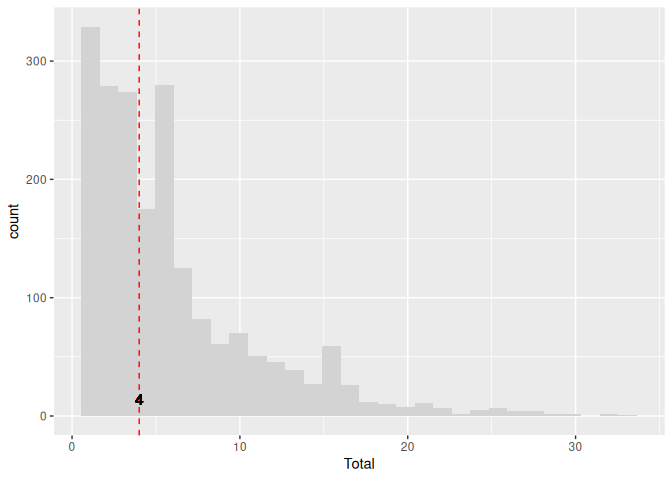
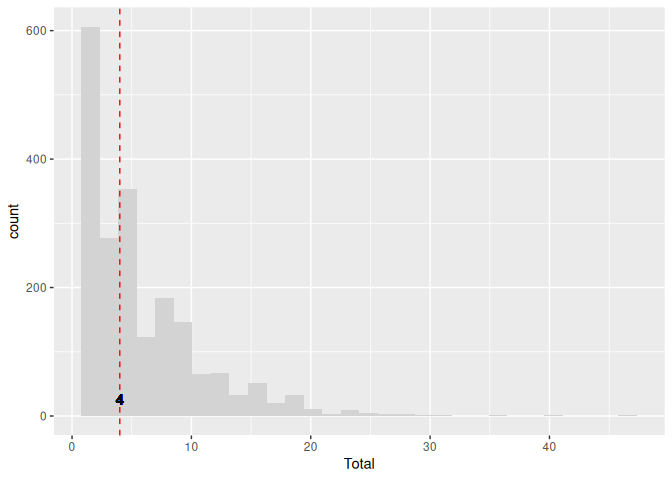
Changing how hospitalization works

diff --git a/model/epiworld.hpp b/model/epiworld.hpp
@@ -21798,6 +21798,16 @@ inline ModelSIRMixing<TSeq> & ModelSIRMixing<TSeq>::initial_states(
     inline void ModelMeaslesQuarantine<TSeq>:: name \
     (epiworld::Agent<TSeq> * p, epiworld::Model<TSeq> * m)
 
+#define SAMPLE_FROM_PROBS(n, ans) \
+    size_t ans; \
+    epiworld_double p_total = m->runif(); \
+    for (ans = 0u; ans < n; ++ans) \
+    { \
+        if (p_total < m->array_double_tmp[ans]) \
+            break; \
+        m->array_double_tmp[ans + 1] += m->array_double_tmp[ans]; \
+    }
+
 /**
  * @brief Template for a Measles model with quarantine
  * 
@@ -22189,7 +22199,6 @@ LOCAL_UPDATE_FUN(m_update_rash) {
     )
     {
         model->system_quarantine_triggered = true;
-
         detected = true;
 
     }
@@ -22207,10 +22216,11 @@ LOCAL_UPDATE_FUN(m_update_rash) {
     );
     #endif
 
-    int which = epiworld::roulette(2, m);
+    // Sampling from the probabilities
+    SAMPLE_FROM_PROBS(2, which);
 
     // Recovers
-    if (which == -1)
+    if (which == 2)
     {
         if (detected)
         {
@@ -22256,10 +22266,11 @@ LOCAL_UPDATE_FUN(m_update_isolated) {
     m->array_double_tmp[0] = 1.0/m->par("Rash days");
     m->array_double_tmp[1] = m->par("Hospitalization rate");
 
-    int which = epiworld::roulette(2, m);
+    // Sampling from the probabilities
+    SAMPLE_FROM_PROBS(2, which);
 
     // Recovers
-    if (which == -1)
+    if (which == 2u)
     {
         if (unquarantine)
         {
@@ -22276,13 +22287,13 @@ LOCAL_UPDATE_FUN(m_update_isolated) {
     }
 
     // If hospitalized, then the agent is removed from the system
-    else if (which == 1)
+    else if (which == 1u)
     {
         p->change_state(m, ModelMeaslesQuarantine::HOSPITALIZED);
     }
     // If neither hospitalized nor recovered, then the agent is
     // still under isolation, unless the quarantine period is over.
-    else if ((which == 0) && unquarantine)
+    else if ((which == 0u) && unquarantine)
     {
         p->change_state(m, ModelMeaslesQuarantine::RASH);
     }
@@ -22532,6 +22543,7 @@ inline ModelMeaslesQuarantine<TSeq>::ModelMeaslesQuarantine(
 
 }
 
+#undef SAMPLE_FROM_PROBS
 #undef LOCAL_UPDATE_FUN
 #undef GET_MODEL
 #endif

diff --git a/model/school_quarantine.cpp b/model/school_quarantine.cpp
@@ -11,8 +11,8 @@ using namespace epiworld;
 int main(int argc, char *argv[]) {
 
     // Passing the single argument to this function
-    std::string fn      = "canyon_crest_74_params.yaml";
-    std::string out_dir = "canyon_crest_74";
+    std::string fn      = "example_params.yaml";
+    std::string out_dir = "example_out";
     if (argc != 3 && argc != 1) {
         std::cerr << "Usage: " << argv[0] << " <filename> <outdir>" << std::endl;
         return 1;

diff --git a/scenarios/canyon_crest_74_npi/README.md b/scenarios/canyon_crest_74_npi/README.md
@@ -57,7 +57,7 @@ This model simulates the spread of measles in a highschool. The
 highschool has students, and the simulation runs for days with one index
 case. The following is the output from the highschool model:
 
-    Using file: /tmp/RtmpYZJFkL/file5b2d326631ac.yaml
+    Using file: /tmp/RtmpkMRSG0/file169c2fd3417b.yaml
     Starting multiple runs (2000) using 10 thread(s)
     _________________________________________________________________________
     _________________________________________________________________________
@@ -72,10 +72,10 @@ case. The following is the output from the highschool model:
     Number of entities  : 0
     Days (duration)     : 60 (of 60)
     Number of viruses   : 1
-    Last run elapsed t  : 1.00ms
-    Total elapsed t     : 454.00ms (2000 runs)
-    Last run speed      : 14.38 million agents x day / second
-    Average run speed   : 125.11 million agents x day / second
+    Last run elapsed t  : 2.00ms
+    Total elapsed t     : 421.00ms (2000 runs)
+    Last run speed      : 13.86 million agents x day / second
+    Average run speed   : 135.03 million agents x day / second
     Rewiring            : off
 
     Global events:
@@ -103,28 +103,28 @@ case. The following is the output from the highschool model:
      - Vax improved recovery  : 0.5000
 
     Distribution of the population at time 60:
-      - ( 0) Susceptible             : 473 -> 349
+      - ( 0) Susceptible             : 473 -> 473
       - ( 1) Exposed                 :   1 -> 0
       - ( 2) Prodromal               :   0 -> 0
       - ( 3) Rash                    :   0 -> 0
       - ( 4) Isolated                :   0 -> 0
-      - ( 5) Quarantined Exposed     :   0 -> 2
-      - ( 6) Quarantined Susceptible :   0 -> 118
-      - ( 7) Quarantined Prodromal   :   0 -> 1
-      - ( 8) Quarantined Recovered   :   0 -> 2
+      - ( 5) Quarantined Exposed     :   0 -> 0
+      - ( 6) Quarantined Susceptible :   0 -> 0
+      - ( 7) Quarantined Prodromal   :   0 -> 0
+      - ( 8) Quarantined Recovered   :   0 -> 0
       - ( 9) Hospitalized            :   0 -> 0
-      - (10) Recovered               :   0 -> 2
+      - (10) Recovered               :   0 -> 1
 
     Transition Probabilities:
-     - Susceptible              0.99  0.00  0.00  0.00  0.00  0.00  0.01  0.00  0.00  0.00  0.00
-     - Exposed                  0.00  0.82  0.08  0.00  0.00  0.08  0.00  0.03  0.00  0.00  0.00
-     - Prodromal                0.00  0.00  0.25  0.75  0.00  0.00  0.00  0.00  0.00  0.00  0.00
-     - Rash                     0.00  0.00  0.00  0.25  0.00  0.00  0.00  0.00  0.50  0.00  0.25
-     - Isolated                 0.00  0.00  0.00  0.00  0.00  0.00  0.00  0.00  1.00  0.00  0.00
-     - Quarantined Exposed      0.00  0.03  0.00  0.00  0.00  0.97  0.00  0.00  0.00  0.00  0.00
-     - Quarantined Susceptible  0.04  0.00  0.00  0.00  0.00  0.00  0.96  0.00  0.00  0.00  0.00
-     - Quarantined Prodromal    0.00  0.00  0.00  0.00  1.00  0.00  0.00  0.00  0.00  0.00  0.00
-     - Quarantined Recovered    0.00  0.00  0.00  0.00  0.00  0.00  0.00  0.00  0.97  0.00  0.03
+     - Susceptible              1.00  0.00  0.00  0.00  0.00  0.00  0.00  0.00  0.00  0.00  0.00
+     - Exposed                  0.00  0.94  0.06  0.00  0.00  0.00  0.00  0.00  0.00  0.00  0.00
+     - Prodromal                0.00  0.00  0.00  1.00  0.00  0.00  0.00  0.00  0.00  0.00  0.00
+     - Rash                     0.00  0.00  0.00  0.00  0.00  0.00  0.00  0.00  0.00  0.00  1.00
+     - Isolated                    -     -     -     -     -     -     -     -     -     -     -
+     - Quarantined Exposed         -     -     -     -     -     -     -     -     -     -     -
+     - Quarantined Susceptible     -     -     -     -     -     -     -     -     -     -     -
+     - Quarantined Prodromal       -     -     -     -     -     -     -     -     -     -     -
+     - Quarantined Recovered       -     -     -     -     -     -     -     -     -     -     -
      - Hospitalized                -     -     -     -     -     -     -     -     -     -     -
      - Recovered                0.00  0.00  0.00  0.00  0.00  0.00  0.00  0.00  0.00  0.00  1.00
 
@@ -146,32 +146,32 @@ flowchart LR
     s8[Rash]
     s9[Recovered]
     s10[Susceptible]
-    s0 -->|0.076707| s3
-    s0 -->|0.074297| s4
-    s0 -->|0.006636| s5
-    s1 -->|0.141961| s9
-    s2 -->|0.156339| s1
-    s2 -->|0.633890| s6
-    s2 -->|0.003711| s8
-    s2 -->|0.008163| s9
-    s3 -->|0.020244| s2
-    s3 -->|0.036600| s5
-    s3 -->|0.311427| s8
-    s4 -->|0.013002| s0
-    s4 -->|0.001093| s3
-    s4 -->|0.083346| s5
-    s5 -->|0.659862| s2
-    s5 -->|0.005275| s3
-    s5 -->|0.009862| s8
-    s6 -->|0.059799| s9
-    s7 -->|0.041857| s10
-    s8 -->|0.161471| s1
-    s8 -->|0.113051| s2
-    s8 -->|0.309019| s6
-    s8 -->|0.314214| s9
-    s10 -->|0.000191| s0
-    s10 -->|0.000033| s4
-    s10 -->|0.005011| s7
+    s0 -->|0.077364| s3
+    s0 -->|0.075019| s4
+    s0 -->|0.006405| s5
+    s1 -->|0.140863| s9
+    s2 -->|0.195589| s1
+    s2 -->|0.551944| s6
+    s2 -->|0.003366| s8
+    s2 -->|0.006268| s9
+    s3 -->|0.021181| s2
+    s3 -->|0.036300| s5
+    s3 -->|0.311429| s8
+    s4 -->|0.013137| s0
+    s4 -->|0.001239| s3
+    s4 -->|0.082703| s5
+    s5 -->|0.652913| s2
+    s5 -->|0.004827| s3
+    s5 -->|0.009769| s8
+    s6 -->|0.059415| s9
+    s7 -->|0.041546| s10
+    s8 -->|0.198874| s1
+    s8 -->|0.135710| s2
+    s8 -->|0.275797| s6
+    s8 -->|0.273087| s9
+    s10 -->|0.000186| s0
+    s10 -->|0.000034| s4
+    s10 -->|0.005067| s7
 
 ```
 
@@ -181,12 +181,12 @@ Estimating the outbreak size:
 
 |    Size | Probability    | Likely size (if \> Size) |
 |--------:|:---------------|:-------------------------|
-|  2.0000 | 0.84           | \[2.00, 21.00\]          |
-|  5.0000 | 0.47           | \[5.00, 24.00\]          |
-| 10.0000 | 0.20           | \[10.00, 28.00\]         |
-| 20.0000 | 0.03           | \[20.00, 32.00\]         |
-|  4.0000 | Median (50%\>) | \[5.00, 24.00\]          |
-|  5.8925 | Mean (average) | \[6.00, 25.00\]          |
+|  2.0000 | 0.84           | \[2.00, 19.00\]          |
+|  5.0000 | 0.45           | \[5.00, 23.00\]          |
+| 10.0000 | 0.19           | \[10.00, 27.65\]         |
+| 20.0000 | 0.02           | \[20.00, 40.15\]         |
+|  4.0000 | Median (50%\>) | \[5.00, 23.00\]          |
+|  5.7635 | Mean (average) | \[6.00, 23.95\]          |
 
 Likely sizes of the outbreak based on 2000 simulations.
 
@@ -211,7 +211,7 @@ Althougth the model was calibrated with an R0 of 15, adding vaccination,
 a smaller population, and quarantine changes (lowers) the reproductive
 number:
 
-    Mean Rt:2.306
+    Mean Rt:2.322
 
     Median Rt:2
 
